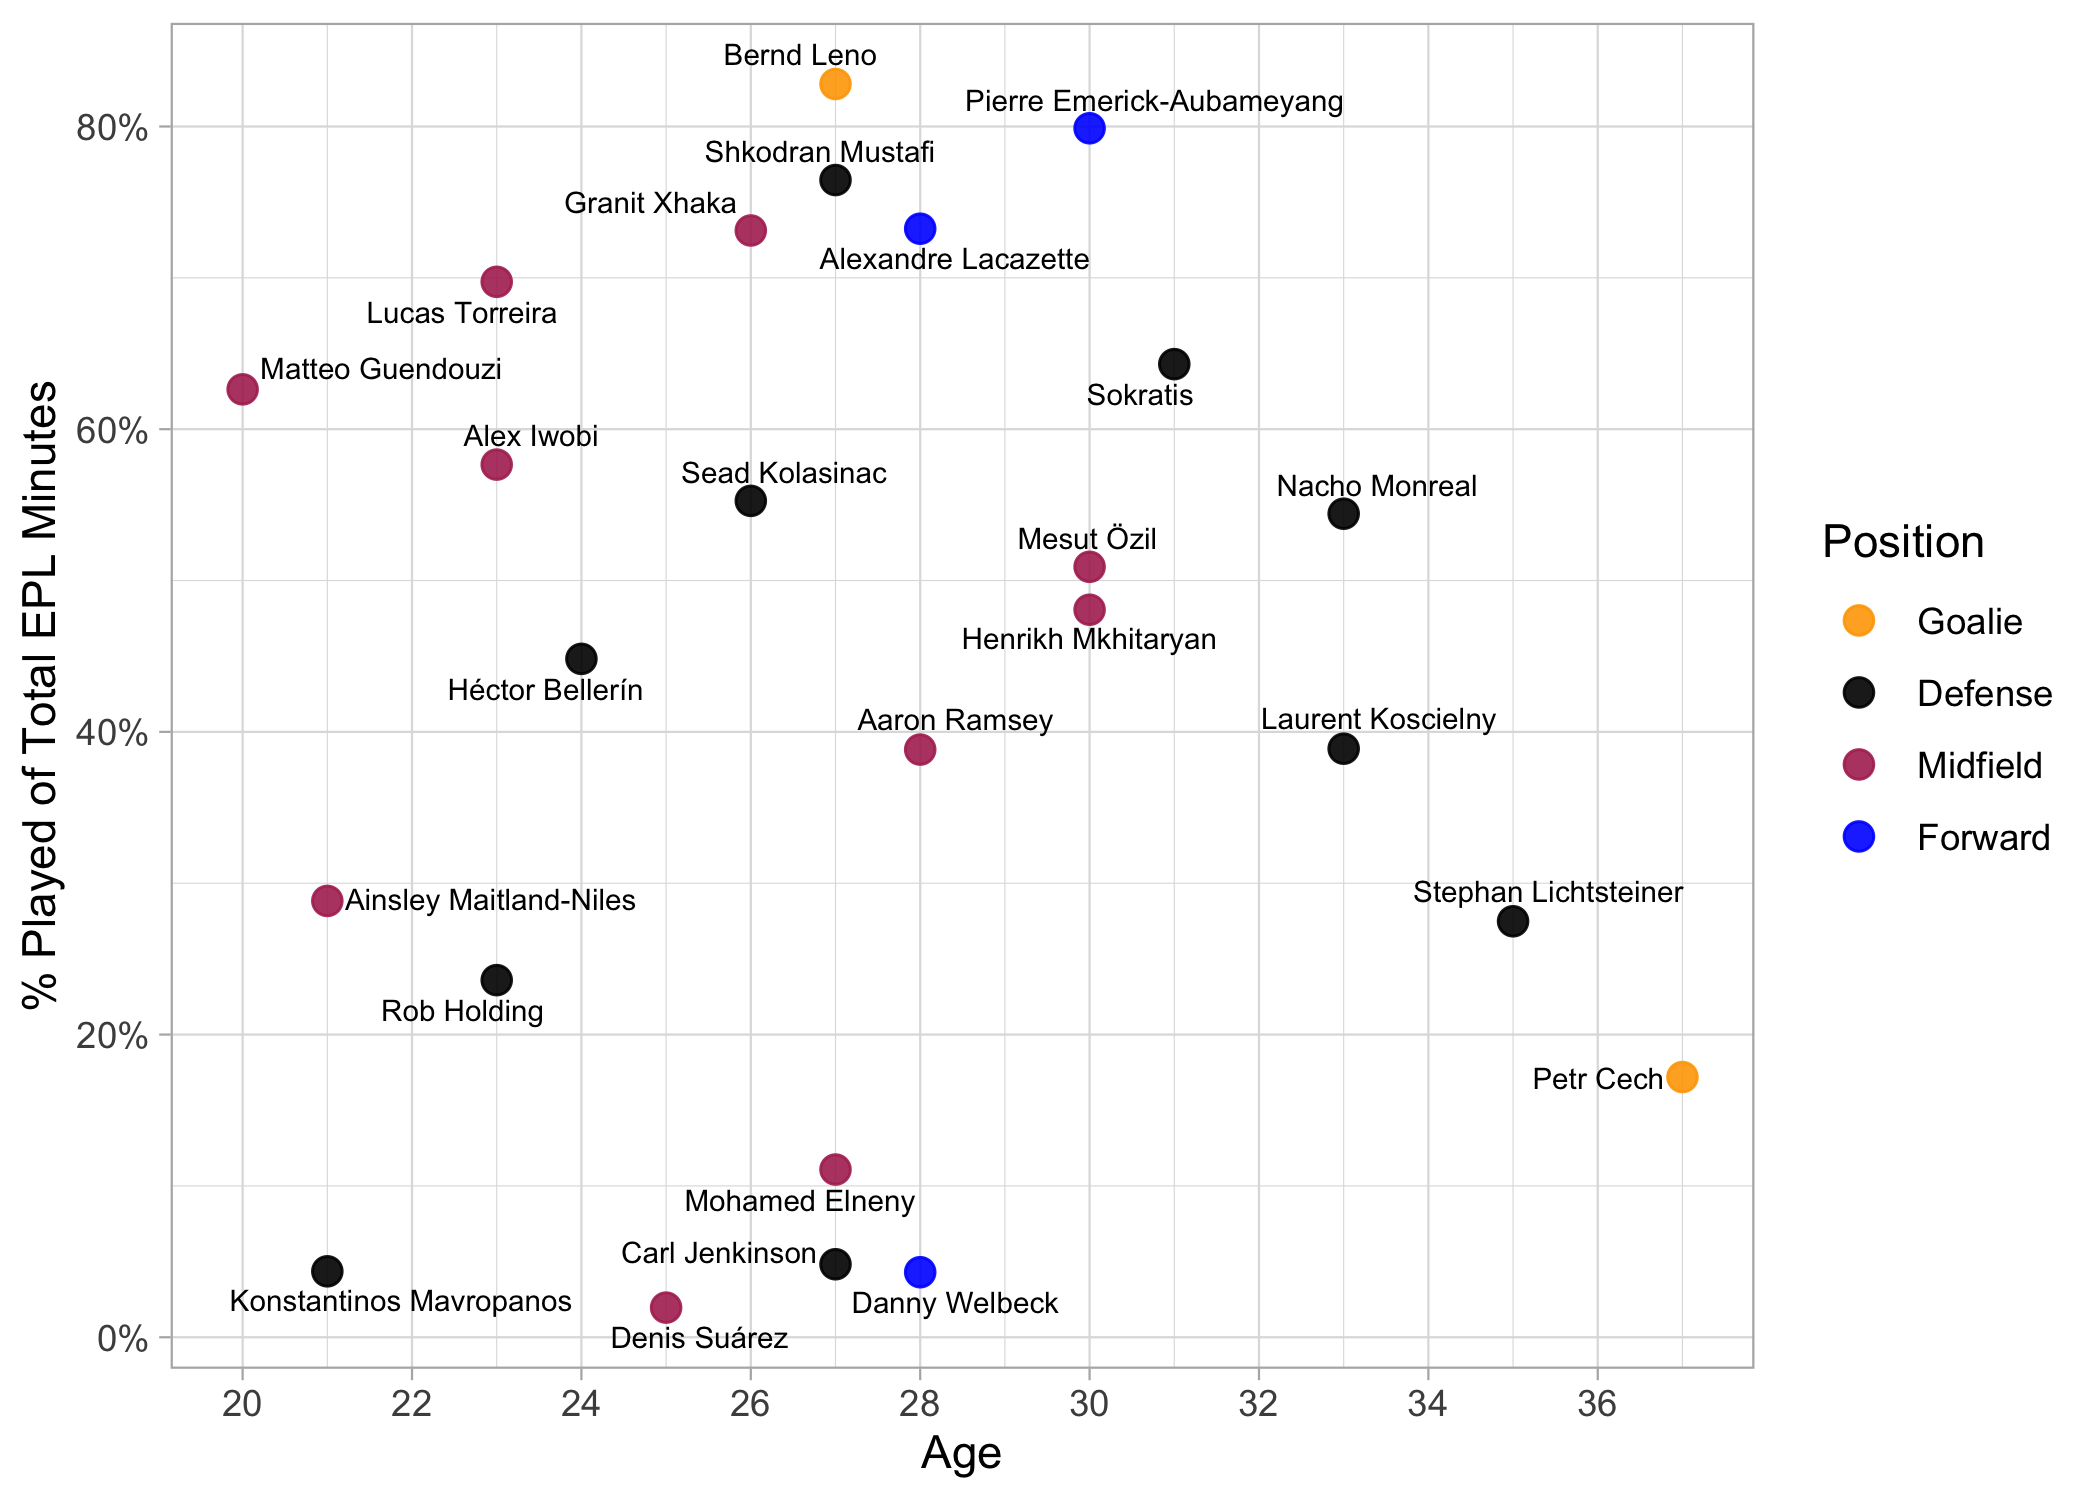
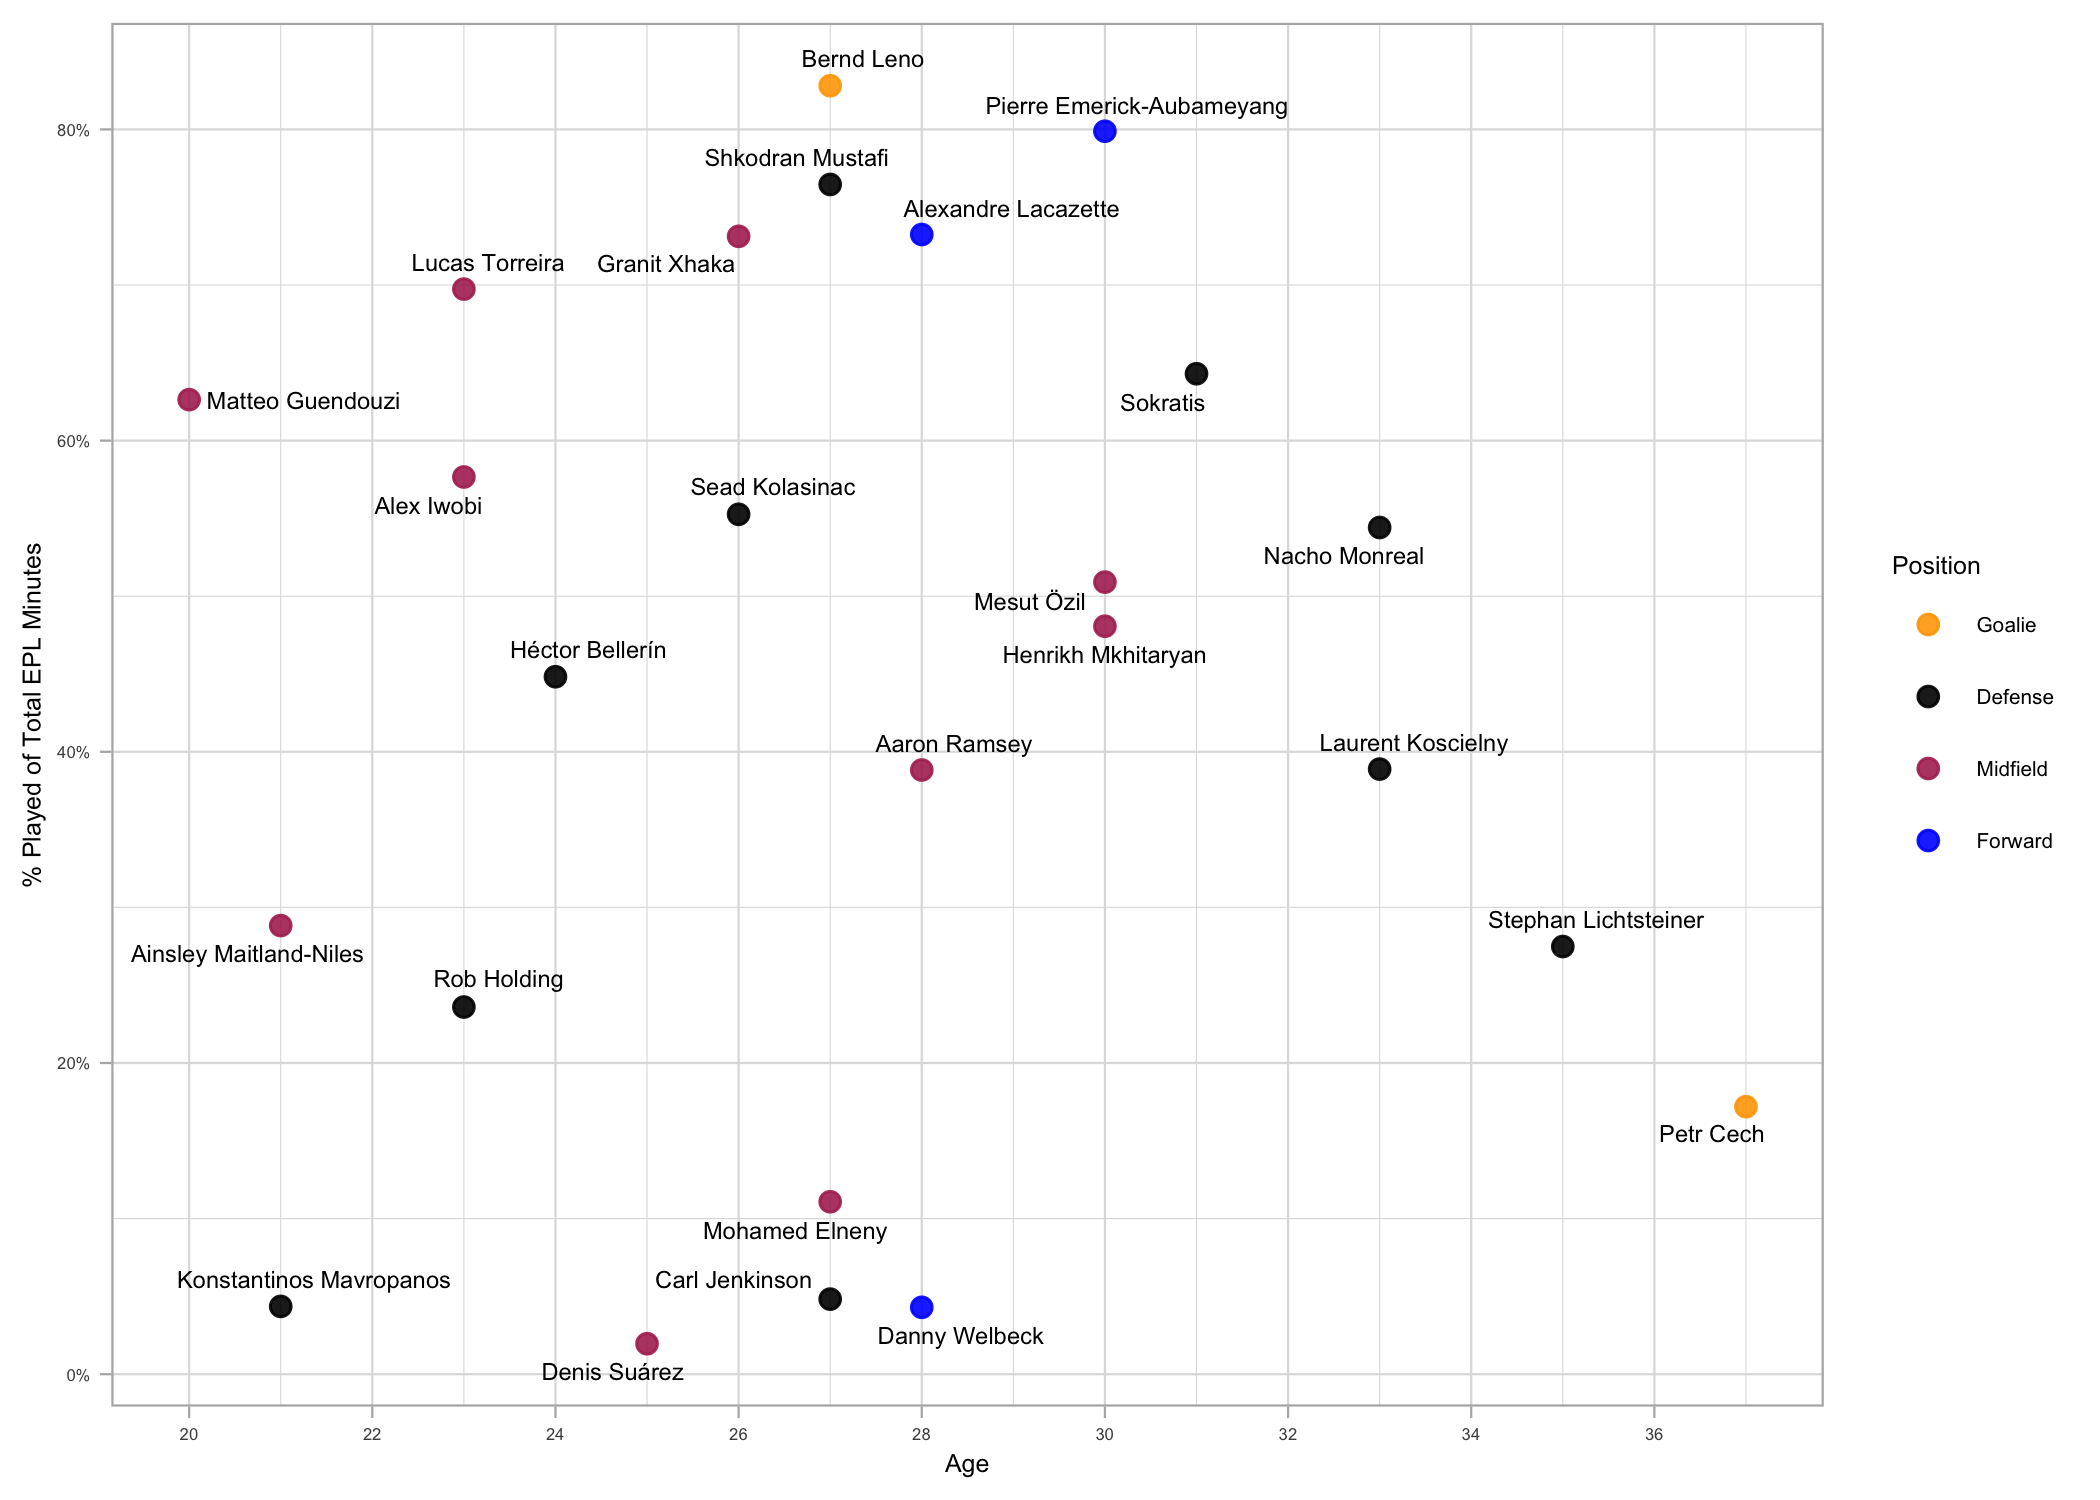
-adjusted size of output figures

diff --git a/squad_age_profile_analysis.md b/squad_age_profile_analysis.md
@@ -123,9 +123,6 @@ squad <- squad %>%
   mutate(WT = as.integer(str_replace(WT, "lbs", ""))) 
 ```
 
-    ## Warning in rlang::eval_tidy(~as.integer(str_replace(WT, "lbs", "")),
-    ## <environment>): NAs introduced by coercion
-
 Next, let’s convert our HT values to a standard of inches. We’ll have to
 separate out our height-feet and height-inches to calculate total height
 in inches.
@@ -215,15 +212,15 @@ theme_set(theme_light())
 
 afc %>% 
   ggplot(aes(x = Age, y = total_mins/(38*90), label = Name)) +
-  geom_point(aes(color = Position), size = 3.0, alpha = 0.9) +
-  geom_text(size = 3, vjust = "middle", hjust = "left", nudge_x = 0.3) +
+  geom_point(aes(color = Position), size = 2.0, alpha = 0.9) +
+  geom_text(size = 2.0, vjust = "middle", hjust = "left", nudge_x = 0.3) +
   scale_color_manual(values = c("orange","black","maroon","blue")) +
   scale_x_continuous(breaks = seq(18,40, by=2)) +
   scale_y_continuous(labels = scales::percent_format()) +
   labs(y = "% of Total EPL Minutes")
 ```
 
-<img src="squad_age_profile_analysis_files/figure-markdown_github/unnamed-chunk-13-1.png" width="7" />
+![](squad_age_profile_analysis_files/figure-markdown_github/unnamed-chunk-13-1.png)
 
 We can see the graph looks a bit messy with some overlapping names. We
 can use the `ggrepel` package to help clean things up.
@@ -232,18 +229,28 @@ Another option to clean things up is by showing only the last-name.
 We’ll use the handy tidyr `extract` function to accomplish this.
 
 ``` r
-p <- afc %>% ggplot(aes(x = Age, y = total_mins/(38*90)))
+p <- afc %>% ggplot(aes(x = Age, y = total_mins/(38*90))) +
+  theme(
+      axis.title=element_text(size=6.0),
+      plot.title = element_text(size = 8.0), 
+      plot.subtitle = element_text(size = 6.0),
+      plot.caption = element_text(size = 4.0),
+      legend.title = element_text(size = 6.0),
+      legend.text = element_text(size = 5.0),
+      axis.text.x = element_text(size = 4.0),
+      axis.text.y = element_text(size = 4.0) 
+      )
 
 p + 
-  geom_point(aes(color = Position), size = 3.0, alpha = 0.9) +
-  ggrepel::geom_text_repel(aes(label = Name), hjust = 0.5, size = 2.5, point.padding = 0.05) +
+  geom_point(aes(color = Position), size = 2.0, alpha = 0.9) +
+  ggrepel::geom_text_repel(aes(label = Name), hjust = 0.5, size = 2.0, point.padding = 0.05) +
   scale_color_manual(values = c("orange","black","maroon","blue")) +
   scale_x_continuous(breaks = seq(18,40, by=2)) +
   scale_y_continuous(labels = scales::percent_format()) +
   labs(y = "% Played of Total EPL Minutes")
 ```
 
-<img src="squad_age_profile_analysis_files/figure-markdown_github/unnamed-chunk-14-1.png" width="7" />
+![](squad_age_profile_analysis_files/figure-markdown_github/unnamed-chunk-14-1.png)
 
 This looks good but let’s go one-step farther by adding a shaded region
 showing the peak age-bracket which we’ll define as from 25 - 30 years
@@ -252,8 +259,8 @@ old.
 ``` r
 p <- p +
   geom_rect(fill = "green", alpha = 0.01, aes(xmin=25, xmax=30, ymin=0, ymax=1)) +
-  geom_point(aes(color = Position), size = 3.0, alpha = 0.9) +
-  ggrepel::geom_text_repel(aes(label = Name), hjust = 0.5, size = 2.5, point.padding = 0.1) +
+  geom_point(aes(color = Position), size = 2.0, alpha = 0.9) +
+  ggrepel::geom_text_repel(aes(label = Name), hjust = 0.5, size = 2.0, point.padding = 0.1) +
   scale_color_manual(values = c("orange","black","maroon","blue")) +
   scale_x_continuous(breaks = seq(18,40, by=2)) +
   scale_y_continuous(labels = scales::percent_format()) +
@@ -262,7 +269,7 @@ p <- p +
 p
 ```
 
-<img src="squad_age_profile_analysis_files/figure-markdown_github/unnamed-chunk-15-1.png" width="7" />
+![](squad_age_profile_analysis_files/figure-markdown_github/unnamed-chunk-15-1.png)
 
 we’ll wrap up by adding a title and some annotations.
 
@@ -272,15 +279,7 @@ p + labs(
   subtitle = "Premier League, 2018/19",
   caption = "Data from Whoscored.com/ESPN"
 ) +
-  theme(
-    axis.title=element_text(size=6.0),
-    plot.title = element_text(size = 8.0), 
-    plot.subtitle = element_text(size = 6.0),
-    plot.caption = element_text(size = 3.0),
-    legend.title = element_text(size = 6.0),
-    legend.text = element_text(size = 4.0)
-    ) +
-  annotate("text", x = 28, y = 0.95, label = "Peak Years", size = 3.5)
+  annotate("text", x = 28, y = 0.95, label = "Peak Years", size = 3.0)
 ```
 
-<img src="squad_age_profile_analysis_files/figure-markdown_github/unnamed-chunk-16-1.png" width="7" />
+![](squad_age_profile_analysis_files/figure-markdown_github/unnamed-chunk-16-1.png)
